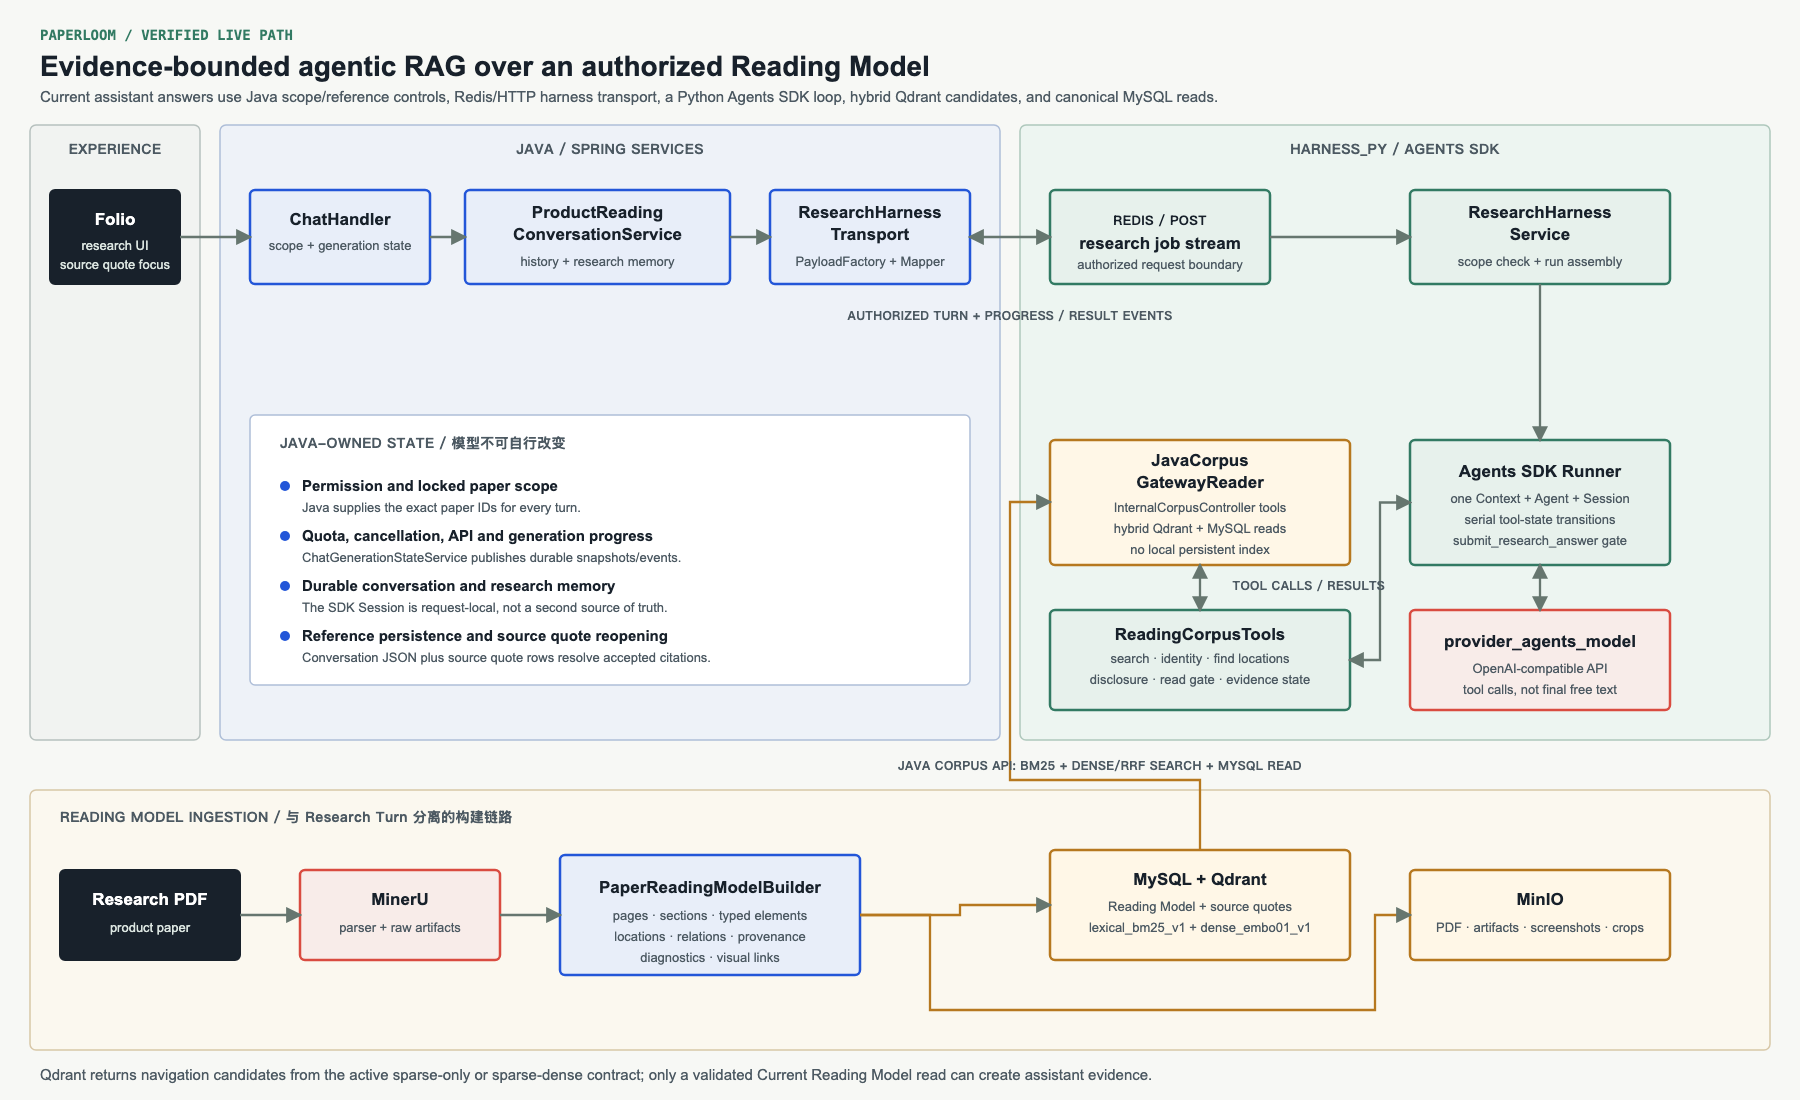
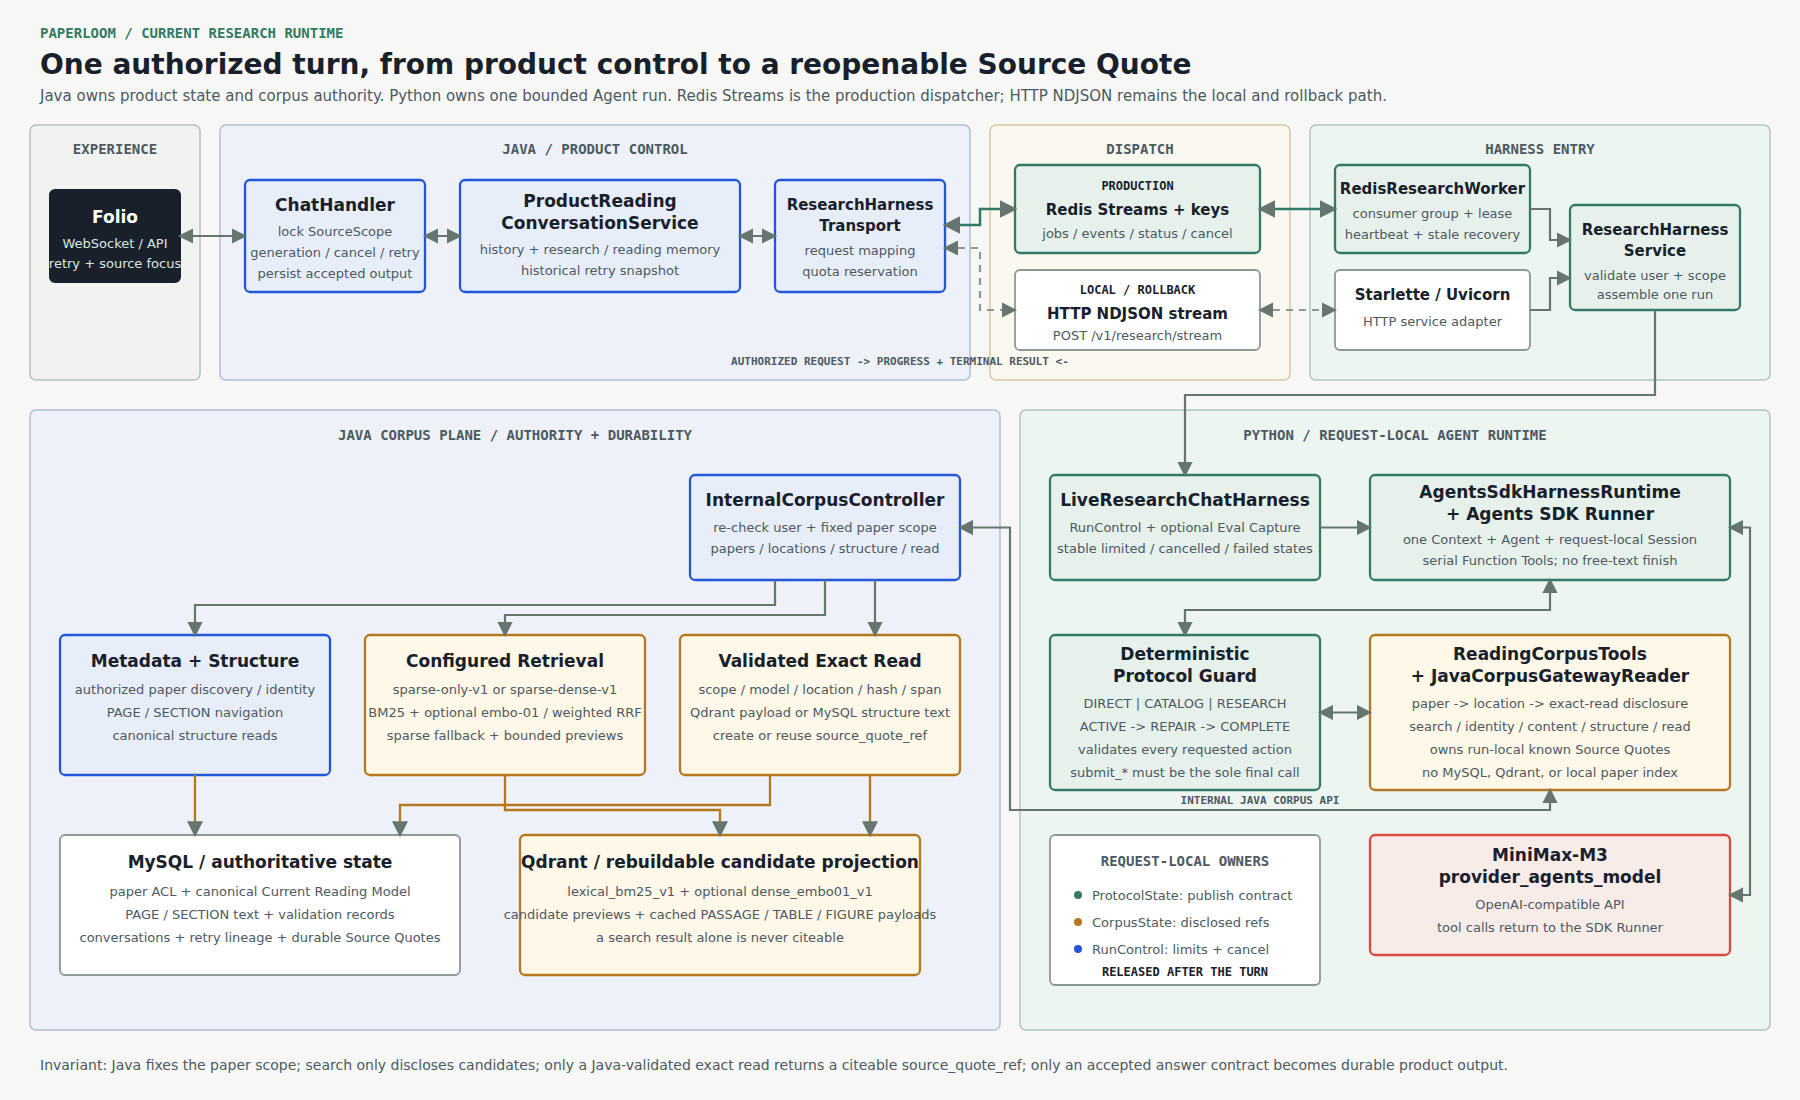
docs: update current runtime architecture diagram

diff --git a/README.md b/README.md
@@ -29,28 +29,29 @@ decisions, failed approaches, costs, and measurements that changed the system.
 
 ## Current Runtime
 
-[![Rendered PaperLoom system architecture](site/public/images/paperloom-system-architecture.png)](site/public/images/paperloom-system-architecture.svg)
+[![Rendered PaperLoom current research runtime](site/public/images/paperloom-system-architecture.png)](site/public/images/paperloom-system-architecture.svg)
 
 The live research path is:
 
 ```text
 ChatHandler
 -> ProductReadingConversationService
--> PythonResearchHarnessClient
--> POST /v1/research/stream
+-> ResearchHarnessTransport
+-> Redis Streams worker pool (production) or HTTP NDJSON (local/rollback)
 -> ResearchHarnessService
 -> OpenAI Agents SDK Runner
 -> Java Corpus API
--> Qdrant candidates + MySQL exact read
+-> Qdrant Candidate Payload + MySQL-owned validation / structure reads
 ```
 
 Java supplies `user_id` and locked paper IDs. Python calls the Java Corpus API and exposes metadata
 discovery, identity resolution, location search, exact reading, optional research guidance, and
 validated final submission as tools. It no longer loads every Reading Element into each Harness replica.
 
-Java indexes canonical Current Reading Model locations into a sparse-only Qdrant collection and
-runs BM25-style lexical retrieval. It then validates and hydrates candidates from MySQL. Qdrant
-remains a candidate index; `read_locations` is still the only evidence-producing content path.
+Java indexes canonical Current Reading Model locations into Qdrant. `sparse-only-v1` runs lexical
+BM25 retrieval; `sparse-dense-v1` adds MiniMax query embeddings and weighted RRF, with sparse results
+as the failure fallback. Qdrant remains a candidate projection. `read_paper_content` is the only
+Agent-visible content tool that returns citeable `source_quote_ref` values.
 
 ## Reading Model
 
@@ -79,11 +80,11 @@ Java-authorized paper scope
 -> disclosed paper candidate or resolved identity
 -> disclosed reading location
 -> exact location read
--> Evidence ID created
+-> Source Quote created
 -> final answer validated against known evidence
 ```
 
-`read_locations` is the only content tool that creates citeable evidence.
+`read_paper_content` is the only content tool that returns citeable Source Quotes.
 `submit_research_answer` must be the only tool call in the final step.
 
 ## Architecture
@@ -93,9 +94,9 @@ Java-authorized paper scope
 | Folio | Vue 3 research workbench, paper selection, progress, conversations, and evidence reopening |
 | Java product boundary | Authentication, authorization, locked source scope, quota, cancellation, durable conversations, and reference mappings |
 | Python research boundary | Agents SDK loop, tool execution, disclosure state, evidence ledger, citation checks, and final submission |
-| Java Corpus plane | Paper authorization, lexical Qdrant retrieval, Current Model validation, and exact reads |
+| Java Corpus plane | Paper authorization, configured Qdrant retrieval, Current Model validation, and exact reads |
 | MySQL | Product papers, canonical Reading Models, conversations, and durable reference data |
-| Qdrant | Rebuildable sparse BM25 candidate index keyed by stable `location_ref` |
+| Qdrant | Rebuildable sparse or sparse+dense candidate projection keyed by stable `location_ref` |
 | MinIO | Original PDFs, parser artifacts, page screenshots, and crop assets |
 | Model provider | MiniMax-M3 used by the Agents SDK runtime through deployment-managed credentials |
 
